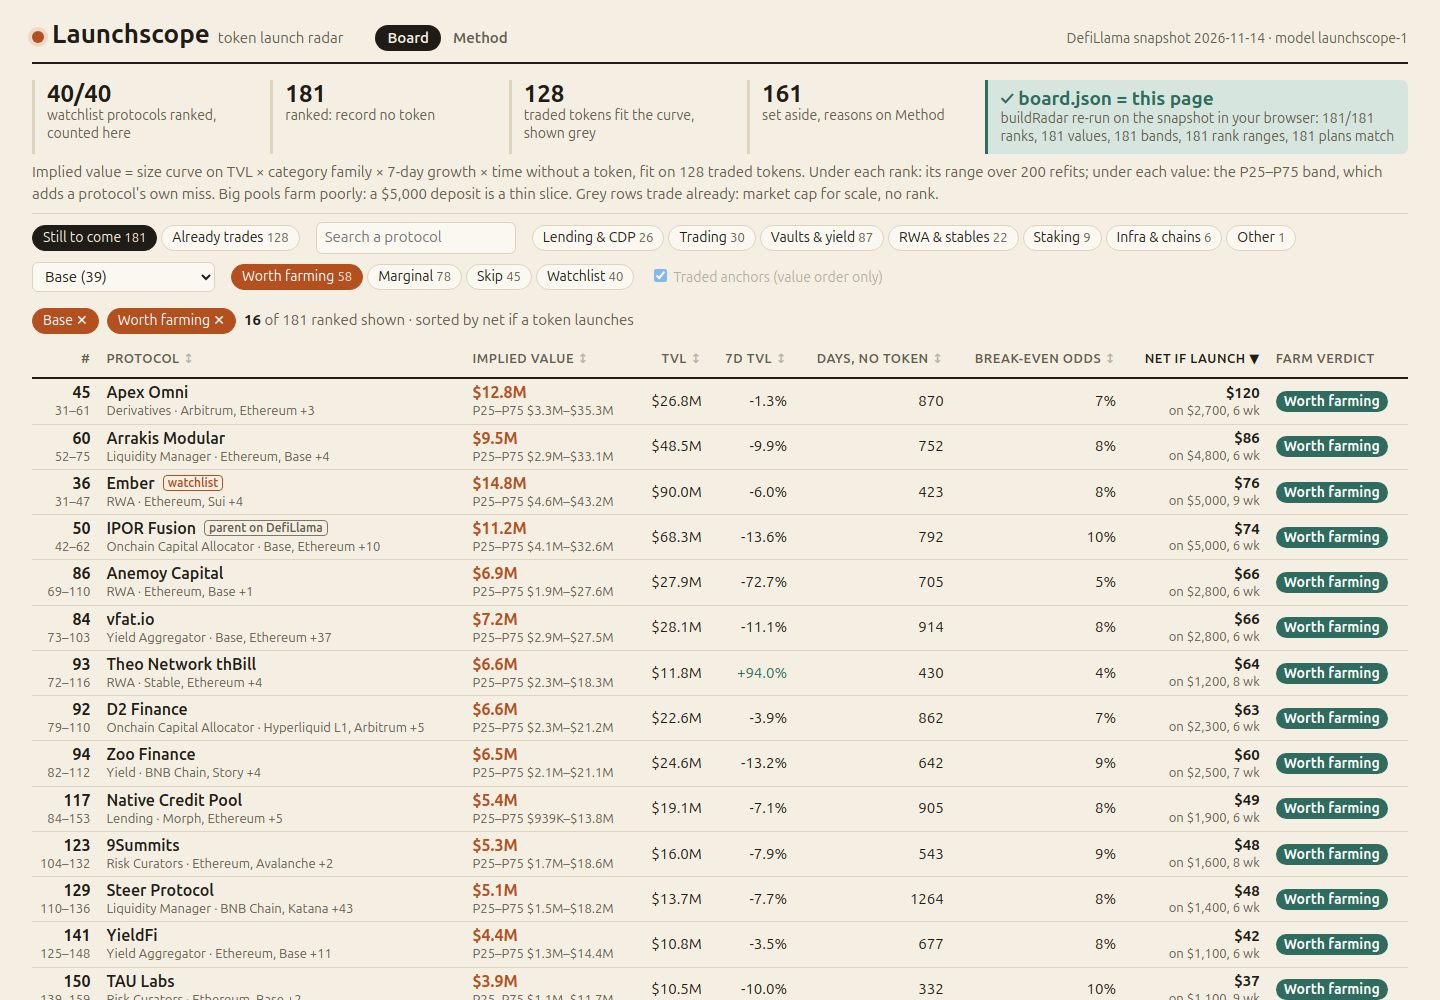
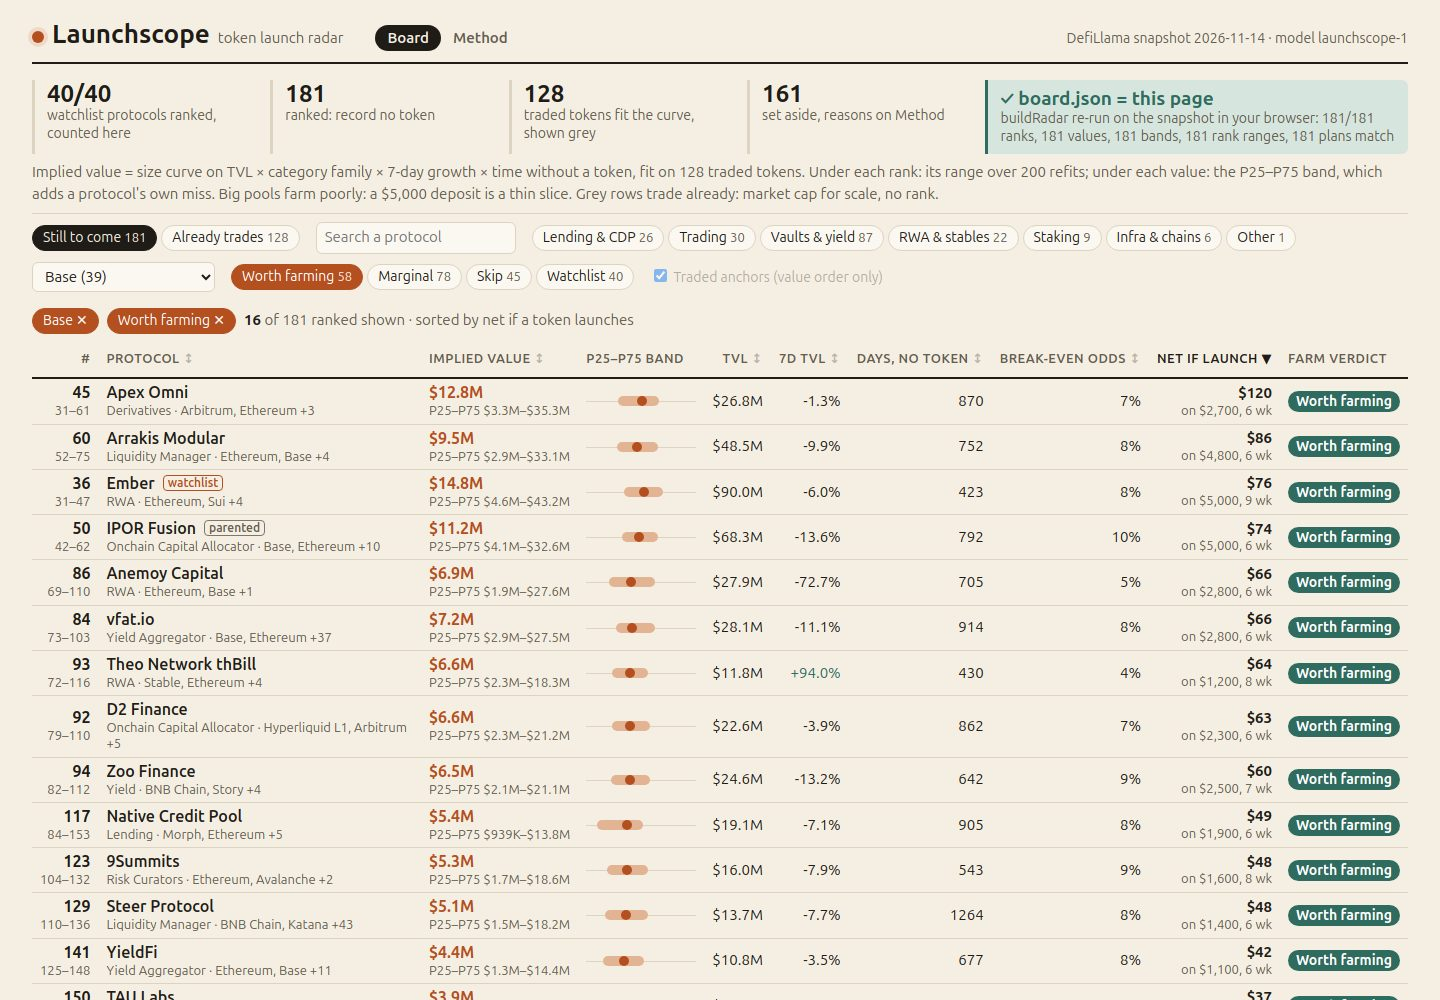
Board: bring back the per-row P25-P75 band bar on one shared log scale
Each ranked row draws its band and value as a thin bar beside the value,
all rows on one log scale so uncertainty compares at a glance; traded
anchors show a grey dot at their market cap.

diff --git a/dashboard/radar.js b/dashboard/radar.js
@@ -96,19 +96,23 @@
     </section>`;
   }
 
-  const NOTE_TAG = { off: 'parent on DefiLlama', named: 'chain-named', shares: 'name shared' };
+  // One log scale for every band on the board, so positions and widths compare at a glance.
+  const lo = Math.log10(Math.min(...M.rows.map((r) => r.boot.p25))), span = Math.log10(Math.max(...M.rows.map((r) => r.boot.p75))) - lo;
+  const at = (v) => Math.min(100, Math.max(0, (100 * (Math.log10(v) - lo)) / span));
+  const bandBar = (r) => `<span class="bb"><i style="left:${at(r.boot.p25).toFixed(1)}%;width:${(at(r.boot.p75) - at(r.boot.p25)).toFixed(1)}%"></i><b style="left:${at(r.iv.value).toFixed(1)}%"></b></span>`;
+  const NOTE_TAG = { off: 'parented', named: 'chain-named', shares: 'name shared' };
   function rowHtml(r) {
     const p = r.plan, tag = r.note && NOTE_TAG[r.note.split(' ')[0]];
     const net = p.net < 0 ? `<td class="num neg"><b>needs ${L.usd(r.iv.value * p.breakEven)}</b><small>launch value to pay</small></td>` : `<td class="num"><b>${L.usd(p.net)}</b><small>on ${L.usd(p.deposit)}, ${p.weeks} wk</small></td>`;
     return `<tr class="ranked" data-slug="${esc(r.slug)}"><td class="rk"><b>${r.rank}</b><small>${r.boot.rankLo}–${r.boot.rankHi}</small></td>
       <td class="name"><a href="#p/${esc(r.slug)}">${esc(r.name)}</a>${r.watch ? '<i class="tag">watchlist</i>' : ''}${tag ? `<i class="tag grey" title="${esc(r.note)}">${tag}</i>` : ''}<small>${esc(r.category || 'no category')} · ${esc(r.chains.slice(0, 2).map(L.chainName).join(', '))}${r.chains.length > 2 ? ` +${r.chains.length - 2}` : ''}</small></td>
-      <td class="val"><b>${L.usd(r.iv.value)}</b><small>P25–P75 ${L.usd(r.boot.p25)}–${L.usd(r.boot.p75)}</small></td>
+      <td class="val"><b>${L.usd(r.iv.value)}</b><small>P25–P75 ${L.usd(r.boot.p25)}–${L.usd(r.boot.p75)}</small></td><td>${bandBar(r)}</td>
       <td class="num">${L.usd(r.tvl_usd)}</td><td class="num ${r.change_7d > 0 ? 'up' : ''}">${pct(r.change_7d)}</td><td class="num">${r.iv.days === null ? 'n/a' : r.iv.days}</td>
       <td class="num">${odds(p.breakEven)}</td>${net}<td><i class="verdict v-${p.verdict}">${L.VERDICT_LABEL[p.verdict]}</i></td></tr>`;
   }
   function anchorHtml(t) {
     return `<tr class="anchor"><td class="rk">–</td><td class="name">${esc(t.name)}<i class="tag grey">trades</i><small>${esc(t.category || 'no category')} · reference, not ranked</small></td>
-      <td class="val"><b>${L.usd(t.mcap_usd)}</b><small>market cap</small></td><td class="num">${L.usd(t.tvl_usd)}</td><td class="num">${pct(t.change_7d)}</td>
+      <td class="val"><b>${L.usd(t.mcap_usd)}</b><small>market cap</small></td><td><span class="bb"><b class="g" style="left:${at(t.mcap_usd).toFixed(1)}%"></b></span></td><td class="num">${L.usd(t.tvl_usd)}</td><td class="num">${pct(t.change_7d)}</td>
       <td class="num" colspan="4">market ${(t.mcap_usd / t.tvl_usd).toFixed(2)}× TVL · our curve would say ${L.usd(L.impliedValue(t, M.fit, S.as_of).value)}</td></tr>`;
   }
 
@@ -177,8 +181,8 @@
     }).join('');
     const th = (key, label, cls) => `<th data-s="${key}" class="${cls || ''} ${st.sort === key ? 'sorted' : ''}">${label}${st.sort === key ? (st.dir === 'asc' ? ' ▲' : ' ▼') : ''}</th>`;
     $('#results').innerHTML = `<div class="status">${active}<span><b>${shown.length}</b> of ${M.rows.length} ranked shown${anchors.length ? `, ${anchors.length} traded anchors` : ''} · sorted by ${SORT_LABEL[st.sort]}</span></div>
-      <table class="board"><thead><tr><th class="rk">#</th>${th('name', 'Protocol')}${th('value', 'Implied value')}${th('tvl', 'TVL', 'num')}${th('growth', '7d TVL', 'num')}${th('days', 'Days, no token', 'num')}${th('odds', 'Break-even odds', 'num')}${th('net', 'Net if launch', 'num')}<th>Farm verdict</th></tr></thead>
-      <tbody>${body.join('') || '<tr><td colspan="9" class="empty">No ranked protocol matches these filters; remove a chip above.</td></tr>'}</tbody></table>`;
+      <table class="board"><thead><tr><th class="rk">#</th>${th('name', 'Protocol')}${th('value', 'Implied value')}<th>P25–P75 band</th>${th('tvl', 'TVL', 'num')}${th('growth', '7d TVL', 'num')}${th('days', 'Days, no token', 'num')}${th('odds', 'Break-even odds', 'num')}${th('net', 'Net if launch', 'num')}<th>Farm verdict</th></tr></thead>
+      <tbody>${body.join('') || '<tr><td colspan="10" class="empty">No ranked protocol matches these filters; remove a chip above.</td></tr>'}</tbody></table>`;
   }
 
   // -- the detail view

diff --git a/dashboard/style.css b/dashboard/style.css
@@ -65,6 +65,7 @@ td { padding: 4px 8px; border-bottom: 1px solid var(--rule); }
 .board .rk b, .board .val b, .board .name a { font-size: 16px; }
 .board .name a { font-weight: 600; text-decoration: none; }
 .board .val b { color: var(--accent); }
+.board .val, .board .name a { white-space: nowrap; }
 .board tr.ranked { cursor: pointer; }
 .board tr.ranked:hover td { background: var(--card); }
 .board tr.anchor td, .board tr.anchor .val b, .board .neg b { color: var(--grey); }
@@ -72,6 +73,10 @@ td { padding: 4px 8px; border-bottom: 1px solid var(--rule); }
 .board .up { color: var(--plan); }
 .board .neg b { font-weight: 400; }
 .empty { text-align: center; padding: 32px; }
+.bb { position: relative; display: block; width: 110px; height: 14px; border-bottom: 1px solid var(--rule); top: -6px; }
+.bb i, .bb b { position: absolute; top: 8px; height: 10px; border-radius: 5px; background: #e3b494; }
+.bb b { width: 10px; margin-left: -5px; background: var(--accent); }
+.bb b.g { background: var(--grey); }
 .tag { font-style: normal; font-size: 12px; font-weight: 600; color: var(--accent); border: 1px solid var(--accent); border-radius: 4px; padding: 0 4px; margin-left: 8px; vertical-align: 2px; }
 .tag.grey { color: var(--muted); border-color: var(--grey); }
 .verdict { font-style: normal; font-weight: 700; font-size: 14px; padding: 2px 8px; border-radius: 12px; white-space: nowrap; }
